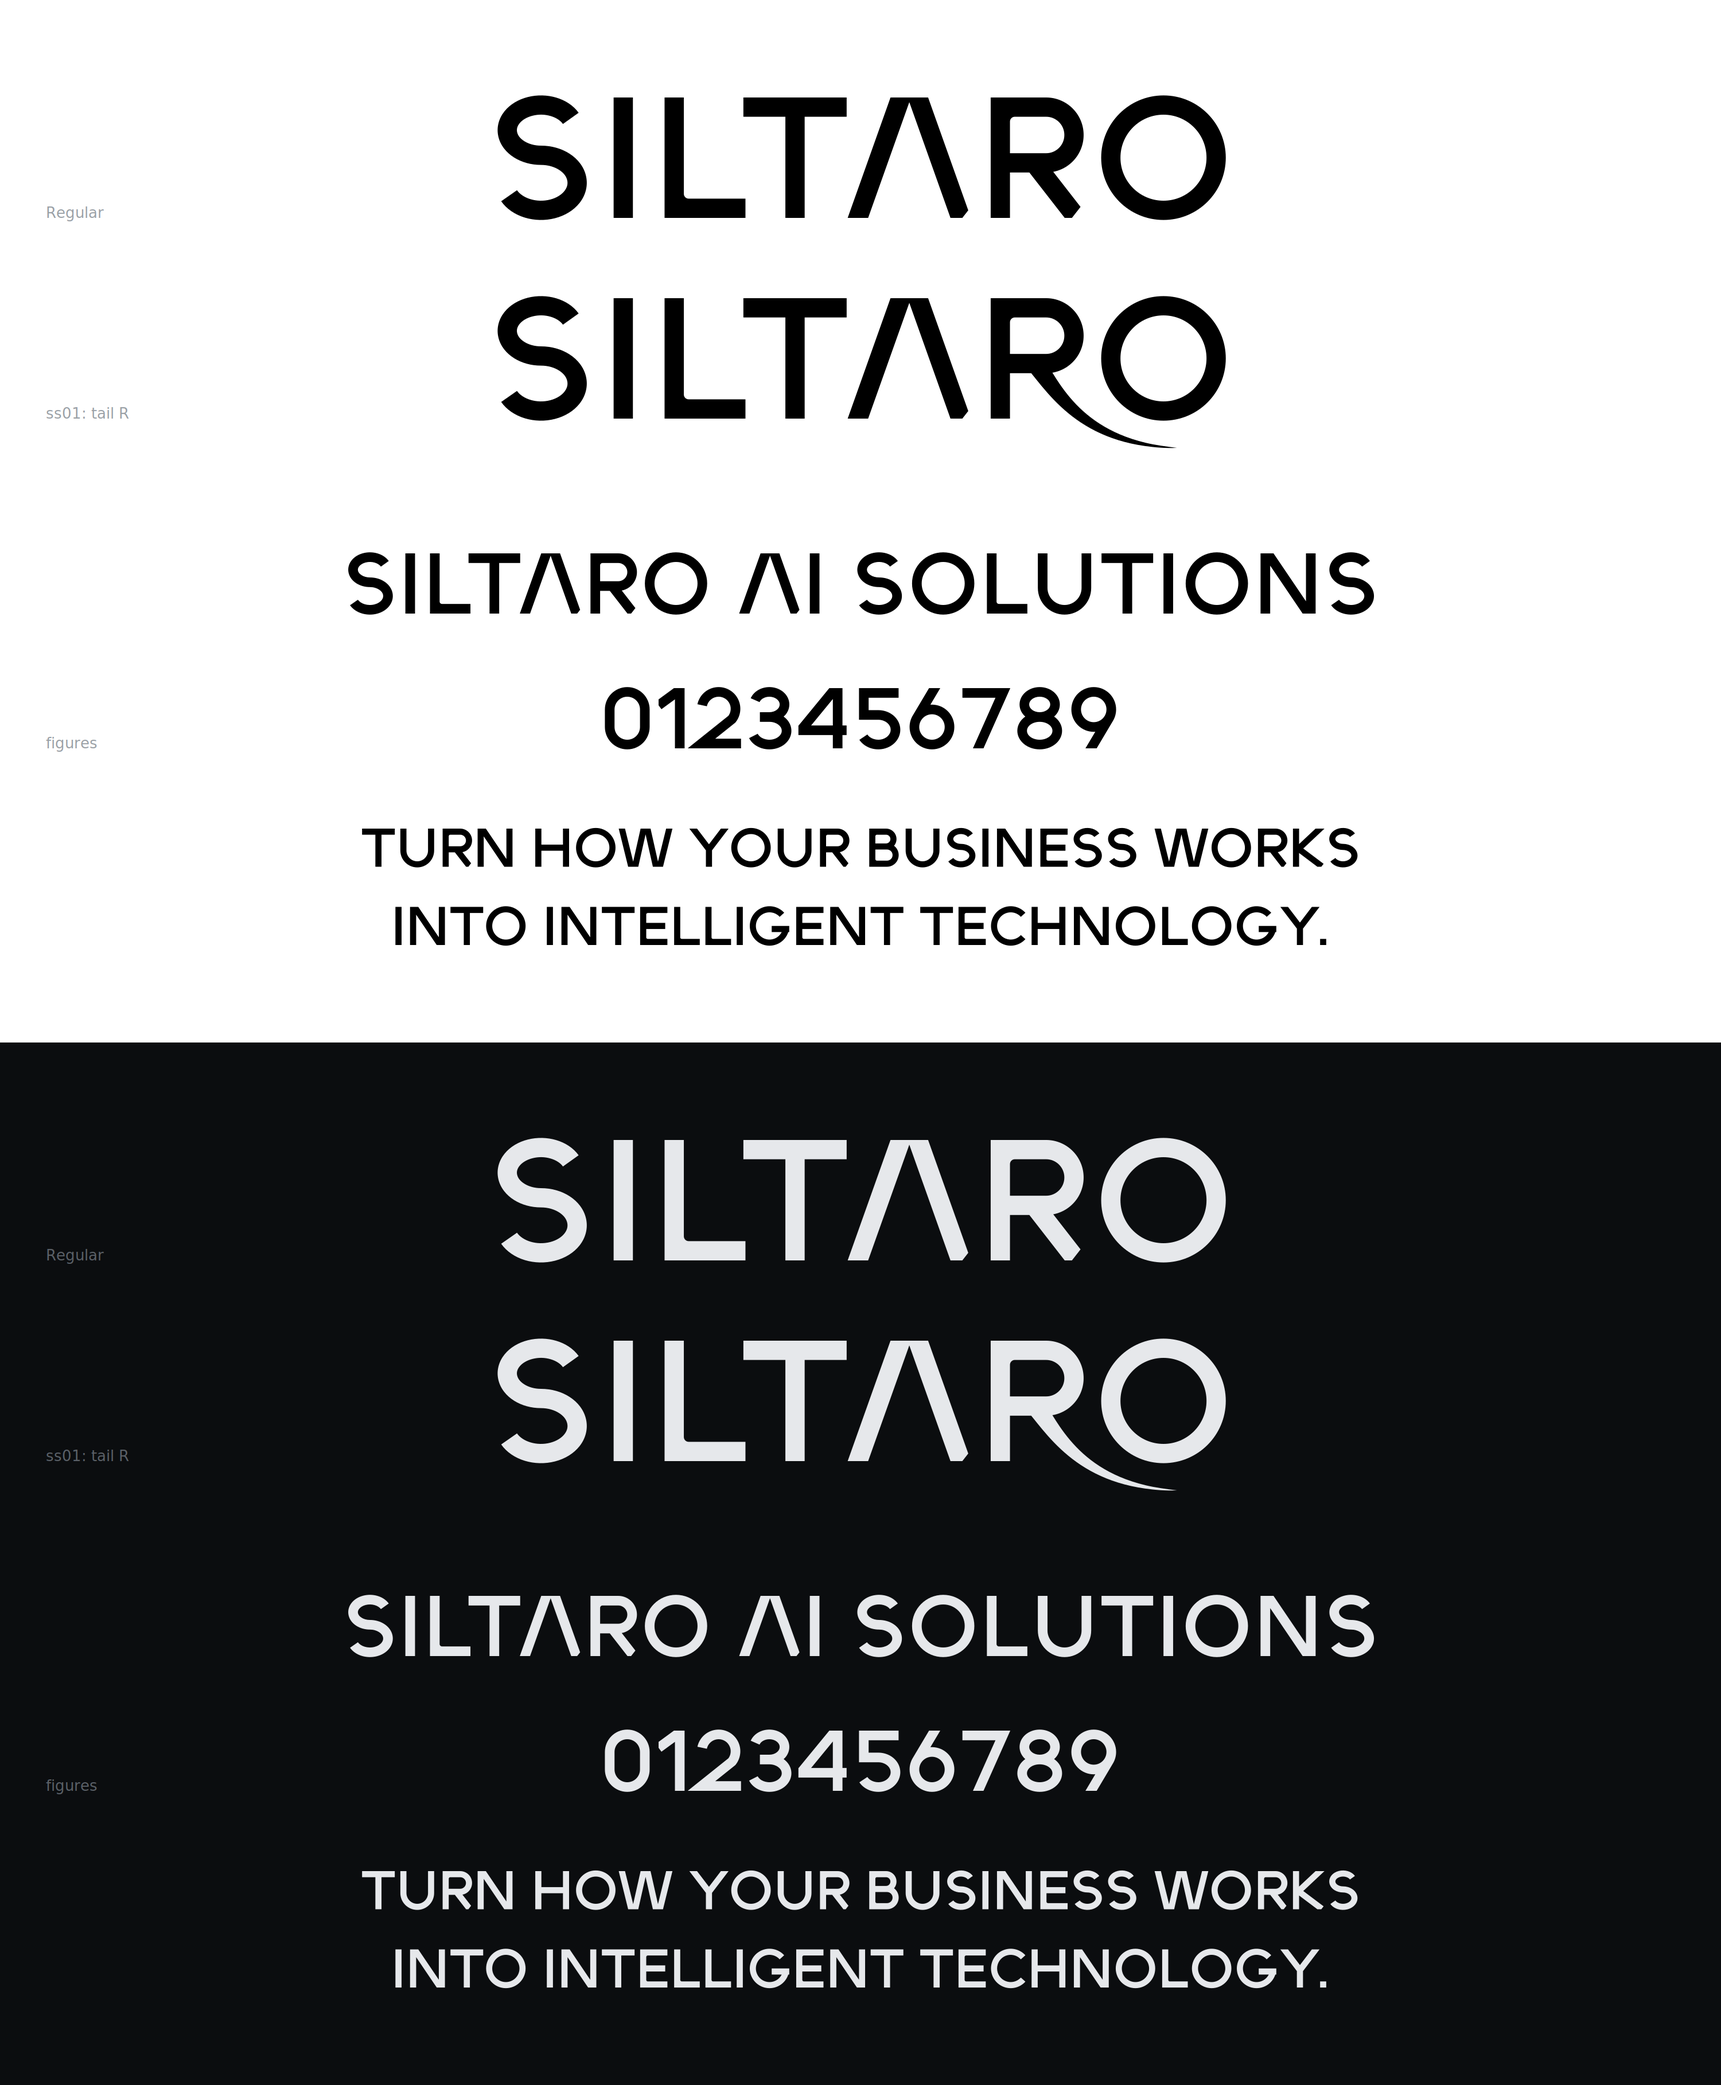
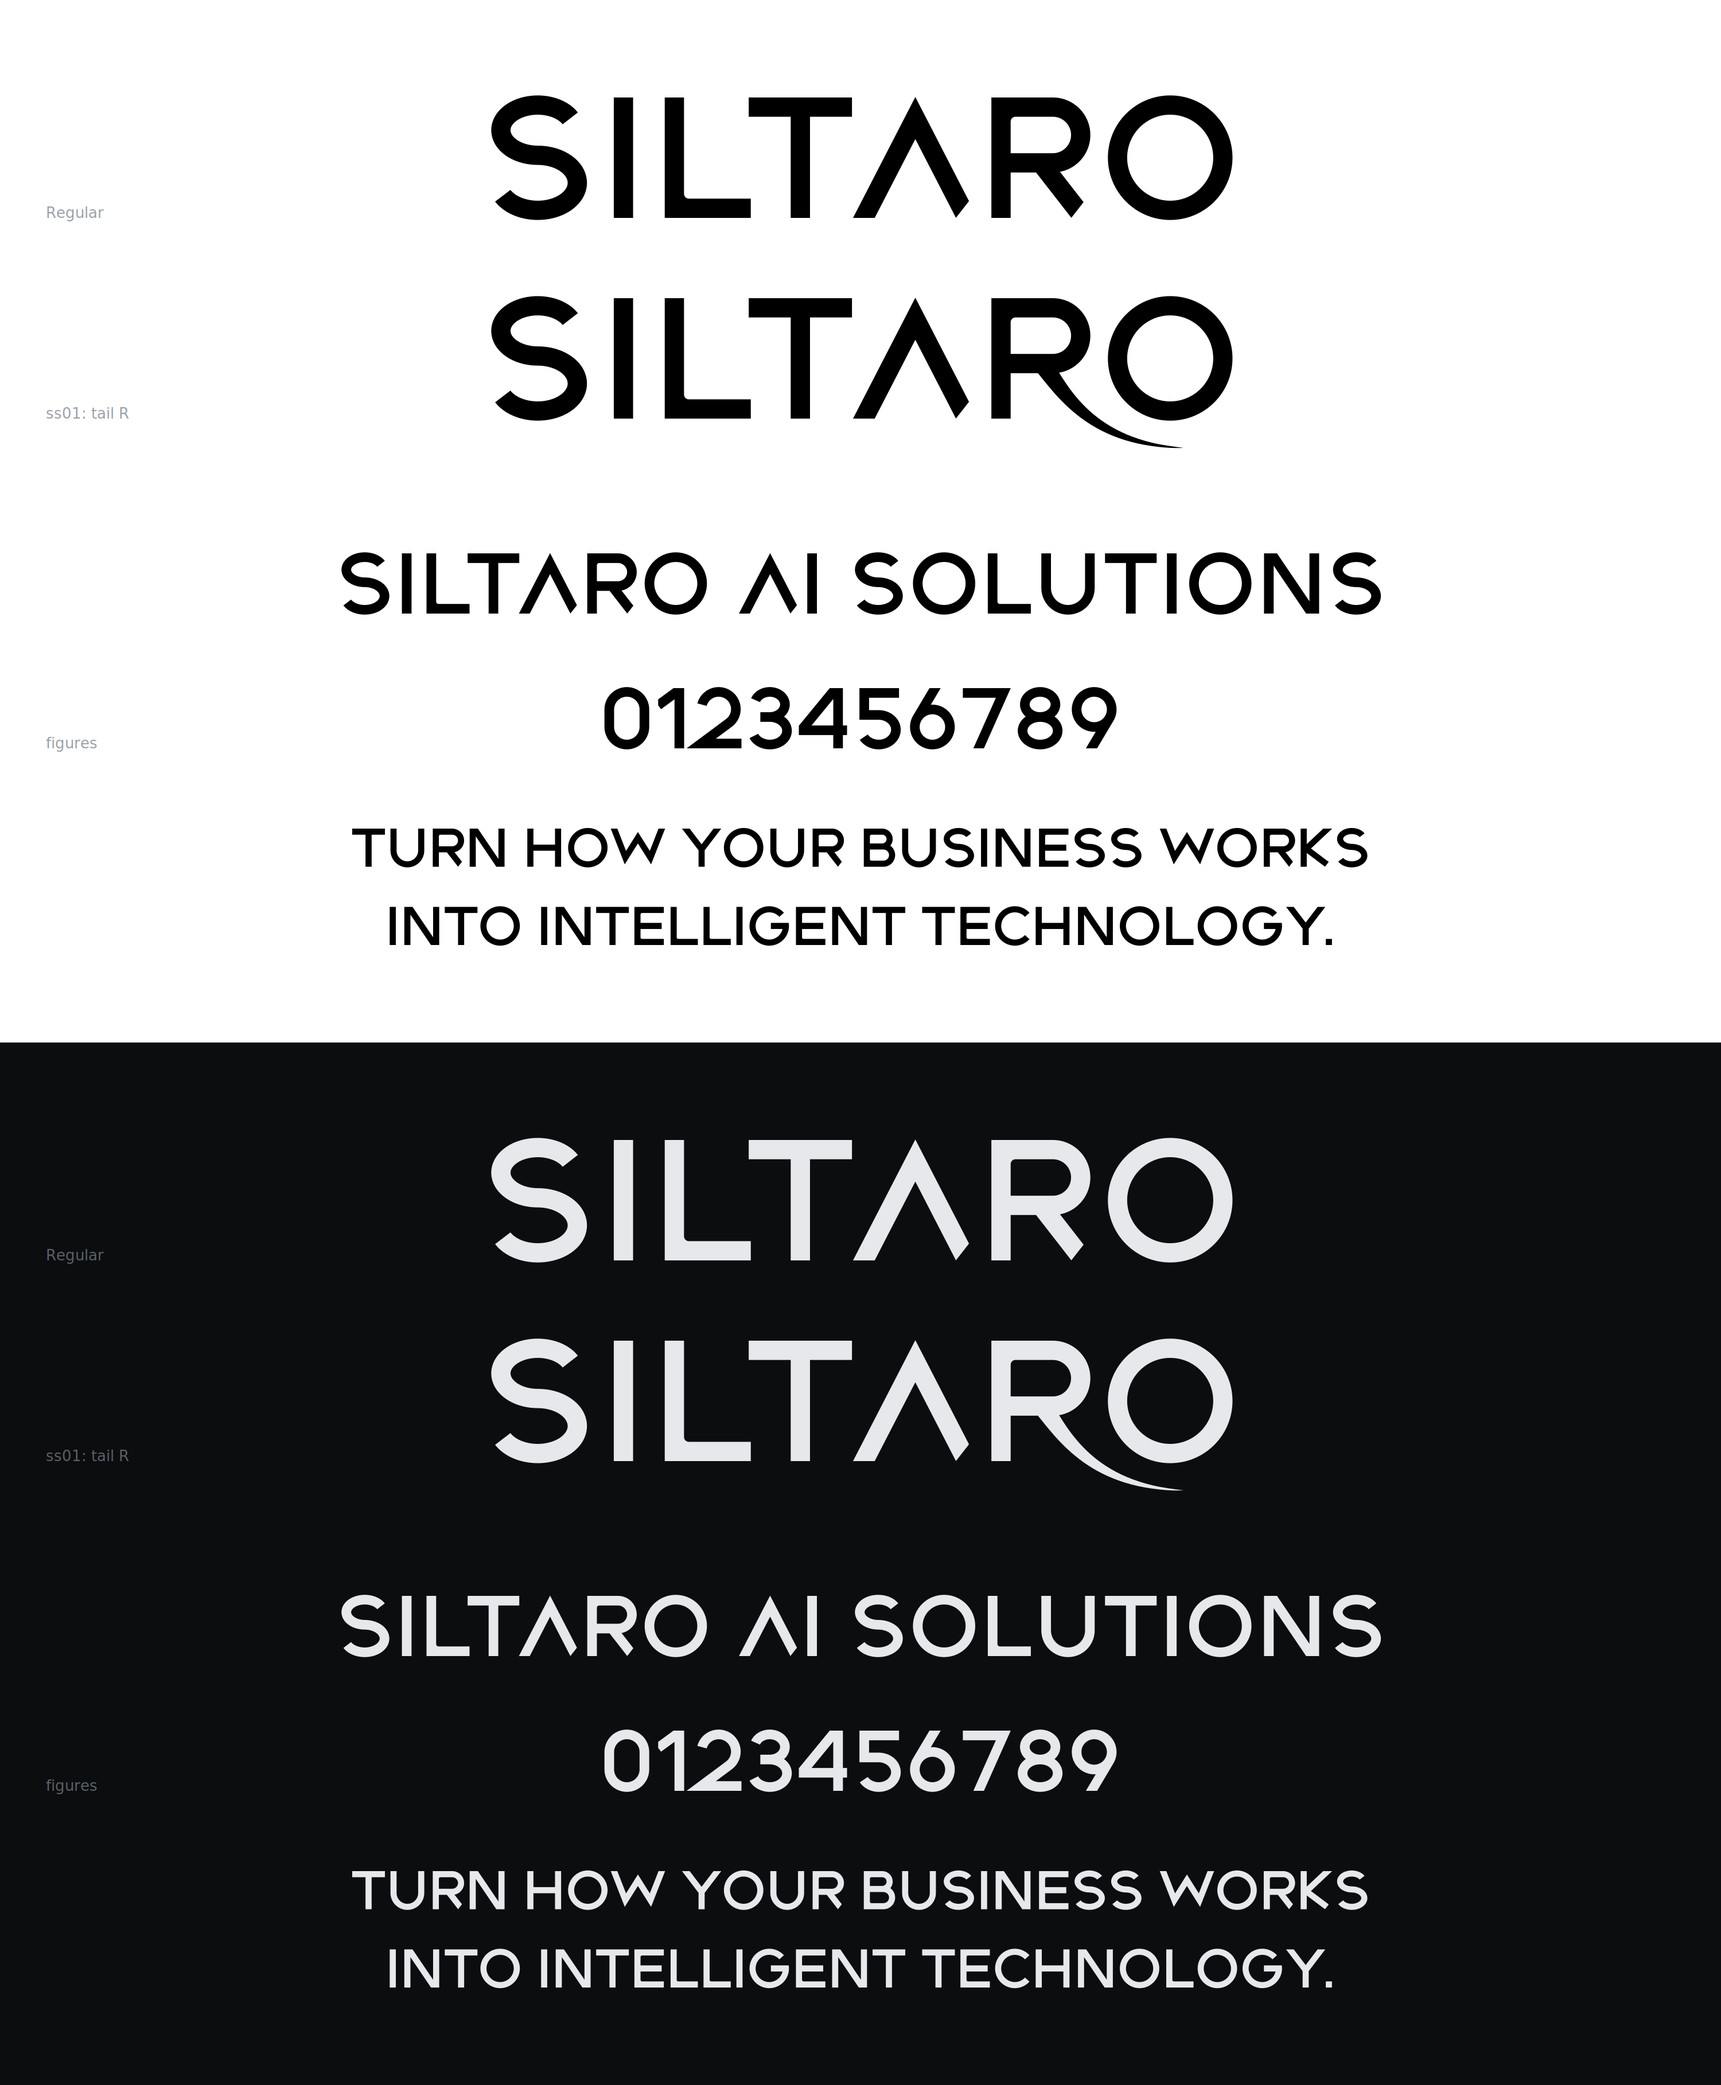
Siltaro Display phase 1 revision: pointed A/V/W, clean G, deliberate slash cut, wider letters
Claude-Session: https://claude.ai/code/session_015RxALbvthgVC9kZyhMhJdG

diff --git a/siltaro-font/src/glyphs.py b/siltaro-font/src/glyphs.py
@@ -5,7 +5,7 @@ are added at build time. All numbers are design decisions made for this typeface
 """
 import math
 
-from geom import (Skel, band, ellipse, fillet, hermite_side, inter, line, poly, rect,
+from geom import (Skel, band, ellipse, fillet, foot_slice, hermite_side, inter, line, poly, rect,
                   ring, slash_cut, translate, union)
 import pathops
 
@@ -47,7 +47,7 @@ def I_(m):
 
 @glyph('L', 0x4C)
 def L_(m):
-    w = 470
+    w = 500
     p = Skel().move(m.h, CAP).line(m.h, m.bot).line(w, m.bot).stroke(m.W)
     p = union(cap(p), fillet(m.W, m.W, 1, 1, m.r))
     return p, SB_STRAIGHT, 20
@@ -62,7 +62,7 @@ def T_(m):
 
 @glyph('E', 0x45)
 def E_(m):
-    w = 500
+    w = 540
     p = Skel().move(w, m.top).line(m.h, m.top).line(m.h, m.bot).line(w, m.bot).stroke(m.W)
     p = union(p, rect(m.W - 1, 350 - m.h, w - 40, 350 + m.h),
               fillet(m.W, CAP - m.W, 1, -1, m.r), fillet(m.W, m.W, 1, 1, m.r))
@@ -71,7 +71,7 @@ def E_(m):
 
 @glyph('F', 0x46)
 def F_(m):
-    w = 490
+    w = 525
     p = Skel().move(w, m.top).line(m.h, m.top).line(m.h, -10).stroke(m.W)
     p = union(cap(p), rect(m.W - 1, 340 - m.h, w - 50, 340 + m.h), fillet(m.W, CAP - m.W, 1, -1, m.r))
     return p, SB_STRAIGHT, 30
@@ -99,42 +99,54 @@ def K_(m):
     arms = Skel().move(w - 30, CAP + 60).line(m.W - 10, j).line(w + 30, -60).stroke(m.W)
     p = cap(union(rect(0, 0, m.W, CAP), arms))
     p = inter(p, rect(0, 0, w, CAP))
-    p = slash_cut(p, w - 70, 0, SLASH)        # the lower leg is a '\' landing on the baseline
+    p = foot_slice(p, SLASH)                  # the lower leg is a '\' landing on the baseline
     return p, SB_STRAIGHT, SB_DIAG
 
 
 # ------------------------------------------------------------------ diagonal letters
-def chevron(m, w, up=True):
-    """Λ (up) or V (down): two legs meeting in a flat-cut apex."""
-    a = 0
+def chevron(m, w, up=True, pointed=True):
+    """Λ (up) or V (down): two legs meeting in an apex.
+    pointed: the outer miter is the apex, overshooting the cap height like a round form."""
+    half = math.atan2(w / 2, CAP)                       # half-angle of the apex
+    tip = m.h / math.sin(half)                          # outer miter beyond the skeleton apex
     if up:
-        s = Skel().move(a, -60).line(w / 2, CAP + 140).line(w - a, -60)
+        ya = CAP + m.os - tip if pointed else CAP + 140
+        s = Skel().move(0, -60).line(w / 2, ya).line(w, -60)
+        p = band(s.stroke(m.W, miter=80), 0, CAP + m.os if pointed else CAP)
     else:
-        s = Skel().move(a, CAP + 60).line(w / 2, -140).line(w - a, CAP + 60)
-    p = cap(s.stroke(m.W, miter=50))
+        ya = -m.os + tip if pointed else -140
+        s = Skel().move(0, CAP + 60).line(w / 2, ya).line(w, CAP + 60)
+        p = band(s.stroke(m.W, miter=80), -m.os if pointed else 0, CAP)
     b = p.bounds
     return translate(p, -b[0]), b[2] - b[0]
 
 
 @glyph('A', 0x41)
 def A_(m):
-    p, w = chevron(m, 640, up=True)
-    # the right leg is a '\' landing on the baseline: sliced by the brand slash
-    p = slash_cut(p, w - 50, 0, SLASH)
+    p, w = chevron(m, 660, up=True)
+    # the right leg is a '\' landing on the baseline: sliced clean through by the brand slash
+    p = foot_slice(p, SLASH)
     return p, SB_DIAG, SB_DIAG
 
 
 @glyph('V', 0x56)
 def V_(m):
-    p, w = chevron(m, 640, up=False)
+    p, w = chevron(m, 660, up=False)
     return p, SB_DIAG, SB_DIAG
 
 
 @glyph('W', 0x57)
 def W_(m):
-    w, x1, x2 = 900, 225, 675
-    s = Skel().move(0, CAP + 60).line(x1, -150).line(w / 2, CAP + 150).line(x2, -150).line(w, CAP + 60)
-    p = cap(s.stroke(m.W, miter=50))
+    """Two chevrons sharing a pointed middle apex; all vertices overshoot like the A and V."""
+    w = 920
+    q = w / 4
+    half = math.atan2(q, CAP)                     # each leg spans one quarter of the width
+    tip = m.h / math.sin(half)
+    lo, hi = -m.os + tip, CAP + m.os - tip
+    s = Skel().move(-q / 2, CAP + CAP / 2).line(q, lo).line(2 * q, hi).line(3 * q, lo).line(4 * q + q / 2, CAP + CAP / 2)
+    p = band(s.stroke(m.W, miter=80), -m.os, CAP + m.os)
+    # outer arms end flat at the cap height; only the middle apex overshoots
+    p = inter(p, union(rect(-500, -100, 2000, CAP), rect(2 * q - 150, CAP - 10, 2 * q + 150, CAP + 100)))
     b = p.bounds
     return translate(p, -b[0]), SB_DIAG, SB_DIAG
 
@@ -169,9 +181,14 @@ def C_(m):
 @glyph('G', 0x47)
 def G_(m):
     R, rs, cy = o_metrics(m)
-    arc = ring(R, cy, rs, rs, m.W, 42, 360)
-    bar = rect(R + 40, cy - m.W, 2 * R, cy)
-    return union(arc, bar), SB_ROUND, SB_ROUND
+    arc = ring(R, cy, rs, rs, m.W, 42, 380)             # runs past 0 deg into the bar ...
+    bar = rect(R + 30, cy - m.h, 2 * R, cy + m.h)       # ... a bar centred on the centre line
+    p = union(arc, bar)
+    # ... and is trimmed flush with the bar's top edge
+    p = inter(p, union(rect(-100, -100, 2 * R + 100, cy + m.h), rect(-100, cy + 140, 2 * R + 100, 900),
+                       rect(-100, -100, R + 30, 900)))
+    p = inter(p, ellipse(R, cy, R, R))                  # the bar ends exactly on the outer circle
+    return p, SB_ROUND, SB_ROUND
 
 
 @glyph('U', 0x55)
@@ -193,7 +210,7 @@ def two_bowls(m, rxu, rxl, ryu=146):
 
 @glyph('S', 0x53)
 def S_(m):
-    rxu, rxl = 196, 210
+    rxu, rxl = 214, 230
     yu, ryu, yl, ryl = two_bowls(m, rxu, rxl)
     cx = rxl + m.h
     s = Skel().arc(cx, yu, rxu, ryu, 28, 270).arc(cx, yl, rxl, ryl, 90, -152)
@@ -210,24 +227,24 @@ def bowl(m, x0, ytop, ybot, right):
 
 @glyph('P', 0x50)
 def P_(m):
-    b, _ = bowl(m, m.h, m.top, 300, 540)
+    b, _ = bowl(m, m.h, m.top, 300, 575)
     p = union(rect(0, 0, m.W, CAP), b, fillet(m.W, CAP - m.W, 1, -1, m.r))
     return p, SB_STRAIGHT, SB_ROUND
 
 
 @glyph('R', 0x52)
 def R_(m):
-    b, xa = bowl(m, m.h, m.top, 320, 540)
+    b, xa = bowl(m, m.h, m.top, 320, 575)
     leg = band(line(xa - 70, 320, xa + 210, -40, m.W), 0, 320)
     p = union(rect(0, 0, m.W, CAP), b, leg, fillet(m.W, CAP - m.W, 1, -1, m.r))
-    p = slash_cut(p, xa + 150, 0, SLASH)
+    p = foot_slice(p, SLASH)
     return p, SB_STRAIGHT, SB_DIAG
 
 
 @glyph('R.ss01')
 def R_ss01(m):
     """The signature R: the leg becomes a long tail sweeping below the baseline to a hairline."""
-    b, xa = bowl(m, m.h, m.top, 320, 540)
+    b, xa = bowl(m, m.h, m.top, 320, 575)
     P = [(xa - 60, 320), (xa + 60, 150), (xa + 230, -150), (xa + 760, -170)]
 
     def c(t):
@@ -270,14 +287,14 @@ def R_ss01(m):
     tail.close()
     tail = band(tail, -400, 320)
     p = union(rect(0, 0, m.W, CAP), b, tail, fillet(m.W, CAP - m.W, 1, -1, m.r))
-    return p, SB_STRAIGHT, SB_DIAG, 540 + SB_DIAG     # explicit advance body: tail overhangs
+    return p, SB_STRAIGHT, SB_DIAG, 575 + SB_DIAG     # explicit advance body: tail overhangs
 
 
 @glyph('B', 0x42)
 def B_(m):
     ym = 372
-    up, _ = bowl(m, m.h, m.top, ym, 500)
-    lo, _ = bowl(m, m.h, ym, m.bot, 540)
+    up, _ = bowl(m, m.h, m.top, ym, 530)
+    lo, _ = bowl(m, m.h, ym, m.bot, 575)
     p = union(rect(0, 0, m.W, CAP), up, lo, fillet(m.W, CAP - m.W, 1, -1, m.r), fillet(m.W, m.W, 1, 1, m.r))
     return p, SB_STRAIGHT, SB_ROUND
 
@@ -309,12 +326,15 @@ def one(m):
 
 @glyph('two', 0x32)
 def two(m):
-    w = 520
-    r = 196
+    """Arc, then a straight diagonal leaving it tangentially, then the base bar."""
+    w = 530
+    r = 200
     cx, cy = w / 2, CAP + m.os - m.h - r
-    a = -38
-    ex, ey = cx + r * math.cos(math.radians(a)), cy + r * math.sin(math.radians(a))
-    s = Skel().arc(cx, cy, r, r, 168, a).line(m.h + 4, m.bot).line(w, m.bot)
+    ex, ey = m.h + 6, m.bot                      # where the diagonal lands
+    d = math.hypot(ex - cx, ey - cy)
+    base = math.atan2(ey - cy, ex - cx)
+    a = math.degrees(base + math.acos(r / d))    # tangent point on the right-hand side
+    s = Skel().arc(cx, cy, r, r, 165, a).line(ex, ey).line(w, m.bot)
     return s.stroke(m.W, miter=8), SB_ROUND, 30
 
 

diff --git a/siltaro-font/src/geom.py b/siltaro-font/src/geom.py
@@ -144,3 +144,13 @@ def hermite_side(f, df, t0, t1, n):
         h = (b - a) / 3
         segs.append((p0, (p0[0] + d0[0] * h, p0[1] + d0[1] * h), (p3[0] - d3[0] * h, p3[1] - d3[1] * h), p3))
     return segs
+
+
+def foot_slice(p, angle, which='right'):
+    """Slice the foot of a leg cleanly with the brand slash: the cut runs from the foot's
+    inner corner on the baseline, rising at `angle`, through the whole leg."""
+    strip = inter(p, rect(-5000, 0, 5000, 1))
+    comps = [c for c in strip.contours]
+    feet = sorted(((c.bounds[0], c.bounds[2]) for c in comps), key=lambda b: b[0])
+    x0, x1 = feet[-1] if which == 'right' else feet[0]
+    return slash_cut(p, x0, 0, angle)

diff --git a/siltaro-font/PROVENANCE.md b/siltaro-font/PROVENANCE.md
@@ -53,3 +53,12 @@ Glyphs: A B C E F G H I K L N O P R S T U V W Y, R.ss01, 0–9, period, space.
 | 7 | top bar + a straight diagonal to (130,−120), clipped |
 | 8 | two stacked ellipse rings (rx 178/204, ry 146/160) |
 | . | W × W square |
+
+## Phase 1 revision: 2026-10-04
+Changes after the first review:
+- **A / V:** the apex is now a true point. The skeleton apex sits at CAP + overshoot − (W/2)/sin(half-angle), so the outer miter lands exactly at 712 (or −12 for the V). Width 660.
+- **Brand slash:** each '\' leg that lands on the baseline (A right leg, K lower leg, R leg) is now sliced clean through. The cut runs from the foot's inner baseline corner, rising at 52°. This replaces the small corner nick.
+- **G:** the arc now runs 42°→380°. The bar is centred on y=350 and runs from x = R+30; the arc is trimmed flush with the bar's top edge, and the whole glyph is clipped to its outer circle so the bar ends exactly on the curve.
+- **W:** pointed vertices built the same way as the A, with each leg spanning a quarter of the width (920). The middle apex stops below the cap height by construction.
+- **2:** the diagonal now leaves the arc (r=200) tangentially. The tangent point is computed from the landing point (W/2+6, W/2).
+- **Wider letters:** E 540, F 525, L 500, P/R bowl right edge 575, B 530/575, S rx 214/230.
